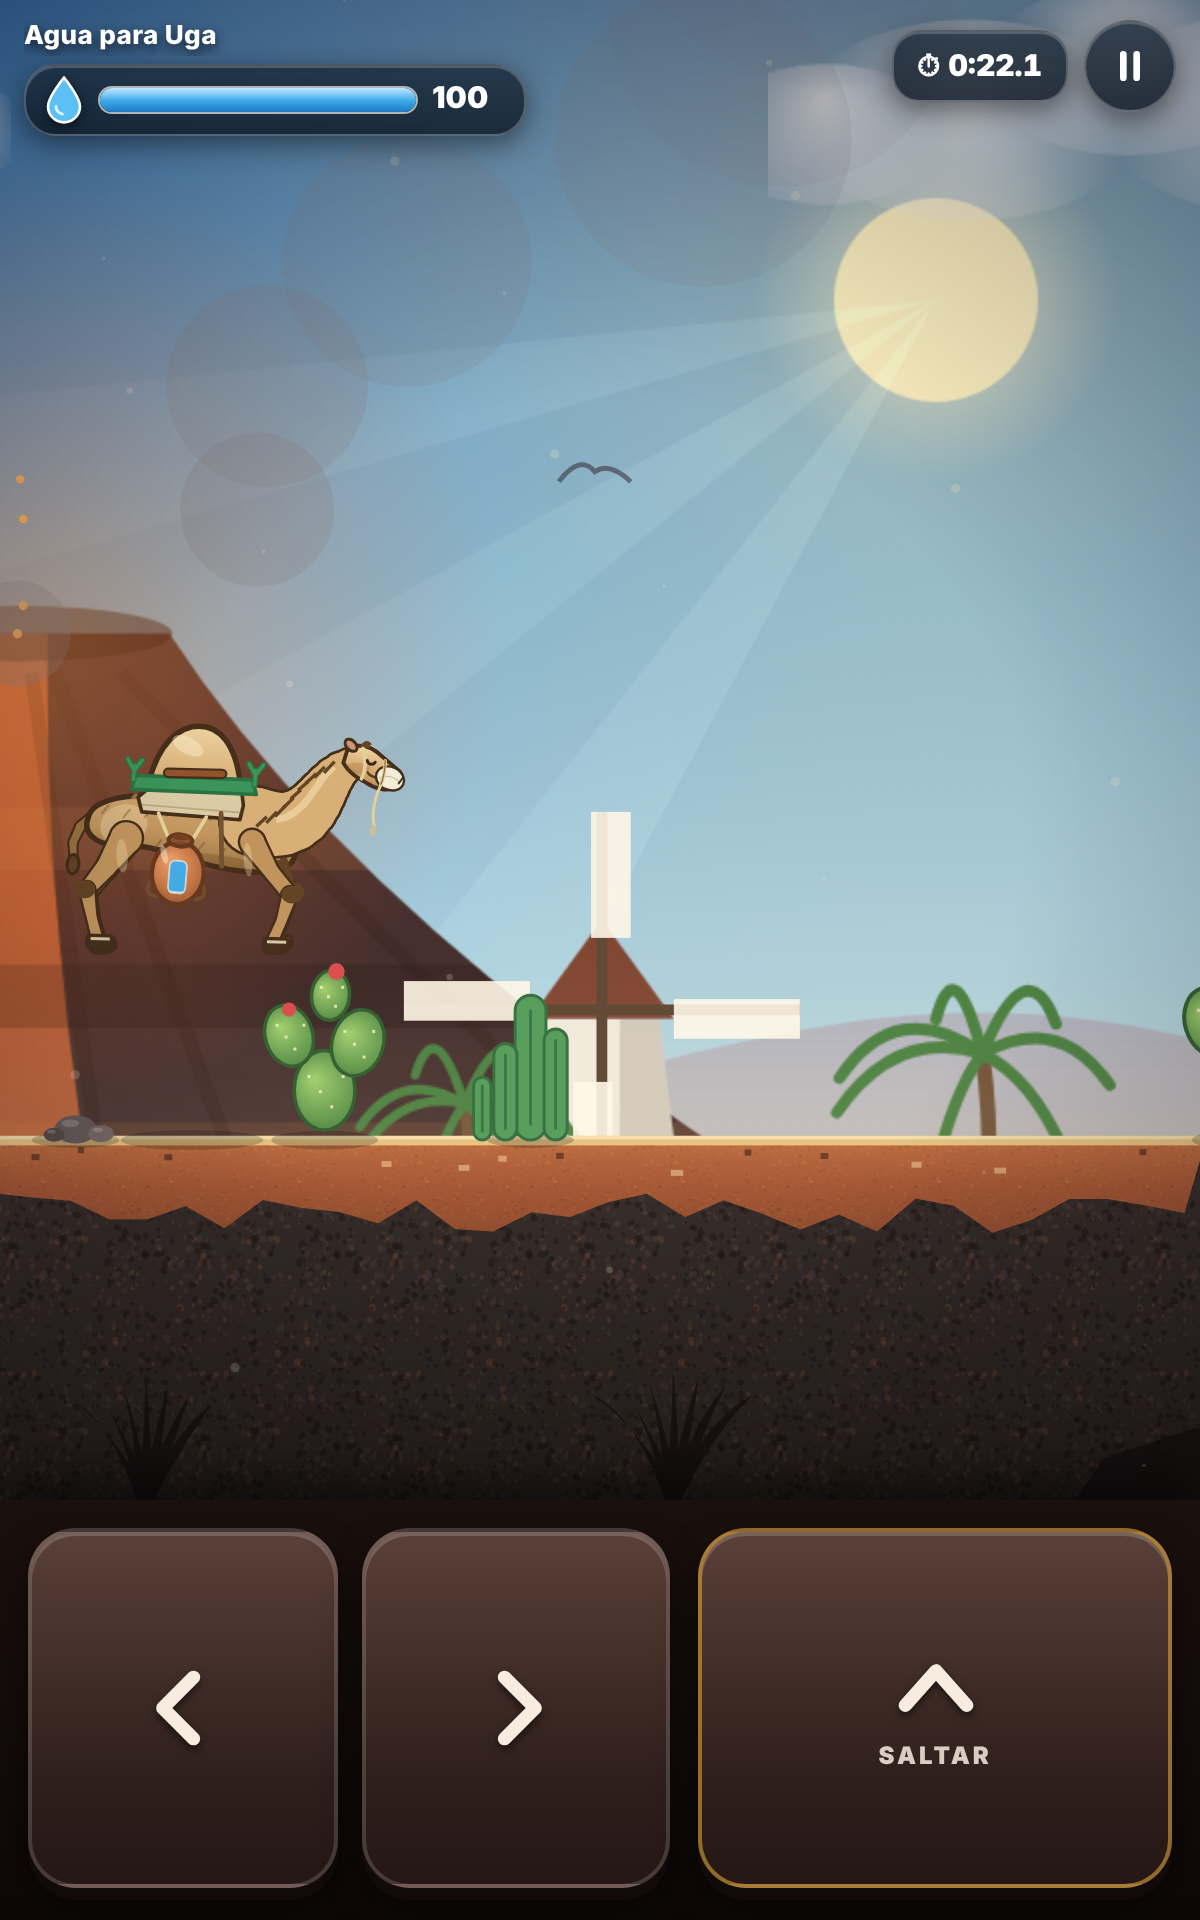
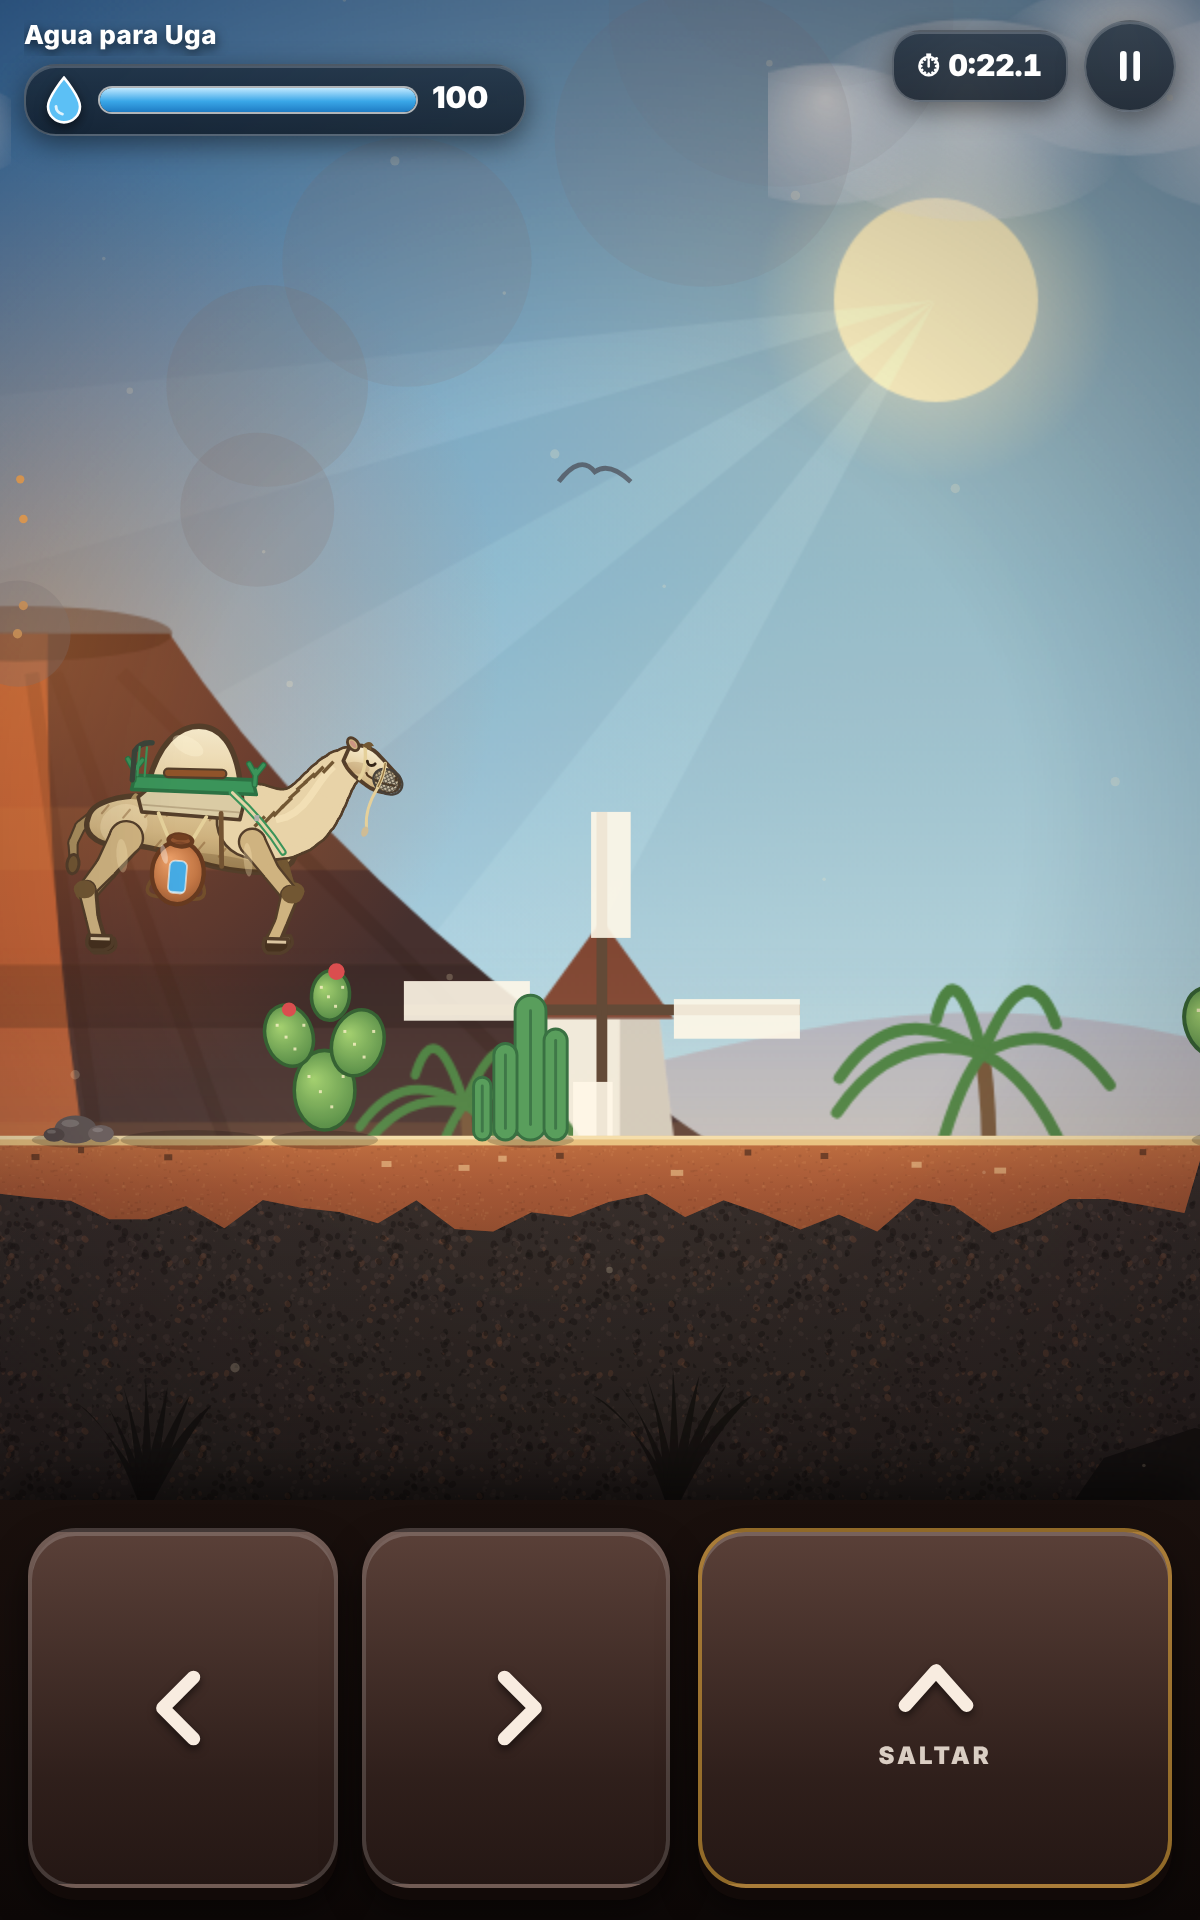
1.6.2: camello con pelaje crema, bozal de malla metálica, barandilla y correa de pecho de la silla de Timanfaya
Claude-Session: https://claude.ai/code/session_01H2Jf8v1MHtV6zTpVoU4WWj

Changed region(s): [[0.0617, 0.375, 0.3392, 0.5]]

diff --git a/docs/app/dibujo.js b/docs/app/dibujo.js
@@ -87,7 +87,7 @@
   function suelo(L, x, y) { let best = L.world.kill_y; for (const s of L.solids) if (s.kind !== 'oneway' && s.x0 <= x && s.x1 >= x && s.top <= y + 0.05 && s.top > best) best = s.top; return best; }
 
   /* ================== MARTÍN ================== */
-  const PEL = { luz: '#ead0a0', claro: '#d6ac74', medio: '#bd8f58', sombra: '#93693a', osc: '#5a3a1c', borde: '#3a2312', hocico: '#ecd9b4' };
+  const PEL = { luz: '#f4e8cc', claro: '#e7d2a8', medio: '#cdb07e', sombra: '#a68a5a', osc: '#6a4e2c', borde: '#4a3422', hocico: '#f1e6cc' };
 
   /* Trazo cónico (muslo, caña, cuello): primero el contorno, luego el relleno, para que no se vean costuras */
   function conico(ctx, pts, ws, fill, borde, lw) {
@@ -135,10 +135,10 @@
     // ventana de la nariz y boca sonriente
     ctx.fillStyle = '#4a2e17'; ctx.beginPath(); ctx.ellipse(0.4, -0.045, 0.016, 0.026, 0.5, 0, TAU); ctx.fill();
     ctx.strokeStyle = '#4a2e17'; ctx.lineWidth = 0.024; ctx.lineCap = 'round'; ctx.beginPath(); ctx.moveTo(0.41, -0.115); ctx.quadraticCurveTo(0.27, -0.15, 0.13, -0.115); ctx.quadraticCurveTo(0.1, -0.108, 0.09, -0.09); ctx.stroke();
-    // bozal de tela clara (como el de los camellos de Timanfaya)
-    ctx.fillStyle = '#f2ecdd'; ctx.strokeStyle = PEL.borde; ctx.lineWidth = 0.025; ctx.beginPath(); ctx.ellipse(0.33, -0.1, 0.15, 0.12, -0.2, 0, TAU); ctx.fill(); ctx.stroke();
-    ctx.strokeStyle = 'rgba(120,100,70,.4)'; ctx.lineWidth = 0.012; ctx.beginPath(); ctx.moveTo(0.22, -0.12); ctx.quadraticCurveTo(0.33, -0.04, 0.44, -0.12); ctx.stroke();
-    ctx.strokeStyle = PEL.borde; ctx.lineWidth = 0.02; ctx.beginPath(); ctx.moveTo(0.46, -0.06); ctx.lineTo(0.43, -0.13); ctx.stroke();
+    // bozal de malla metálica (como el de los camellos de Timanfaya)
+    ctx.save(); ctx.beginPath(); ctx.ellipse(0.33, -0.1, 0.16, 0.125, -0.2, 0, TAU); ctx.fillStyle = 'rgba(70,62,55,.28)'; ctx.fill(); ctx.clip();
+    ctx.strokeStyle = 'rgba(55,48,42,.75)'; ctx.lineWidth = 0.011; ctx.beginPath(); for (let k = -6; k <= 6; k++) { ctx.moveTo(0.33 + k * 0.045 - 0.14, -0.26); ctx.lineTo(0.33 + k * 0.045 + 0.14, 0.06); ctx.moveTo(0.33 + k * 0.045 + 0.14, -0.26); ctx.lineTo(0.33 + k * 0.045 - 0.14, 0.06); } ctx.stroke(); ctx.restore();
+    ctx.strokeStyle = '#3c3733'; ctx.lineWidth = 0.022; ctx.beginPath(); ctx.ellipse(0.33, -0.1, 0.16, 0.125, -0.2, 0, TAU); ctx.stroke();
     // cabezada de cuerda natural
     ctx.strokeStyle = '#e4cf9a'; ctx.lineWidth = 0.036; ctx.beginPath(); ctx.moveTo(0.24, 0.07); ctx.quadraticCurveTo(0.27, -0.06, 0.25, -0.19); ctx.moveTo(-0.02, 0.17); ctx.quadraticCurveTo(0.08, -0.04, 0.04, -0.17); ctx.stroke();
     ctx.strokeStyle = '#8a6a3a'; ctx.lineWidth = 0.014; ctx.beginPath(); ctx.moveTo(0.24, 0.07); ctx.quadraticCurveTo(0.27, -0.06, 0.25, -0.19); ctx.stroke();
@@ -219,13 +219,13 @@
     const sway = Math.sin(ph * 0.5) * (corre ? 0.04 : 0.01) + Math.sin(T * 1.7) * 0.012, tip = anim === 'salta' ? 0.06 : anim === 'cae' ? -0.1 : 0;
     const N = [[0.5, 1.2 + B], [1.08, 1.08 + B], [0.98, 1.66 + B], [1.32, 1.86 + B + tip]];
     const cub = q => { const m = 1 - q; return [m * m * m * N[0][0] + 3 * m * m * q * N[1][0] + 3 * m * q * q * N[2][0] + q * q * q * N[3][0], m * m * m * N[0][1] + 3 * m * m * q * N[1][1] + 3 * m * q * q * N[2][1] + q * q * q * N[3][1]]; };
-    const pts = [], ws = []; for (let i = 0; i <= 12; i++) { const q = i / 12; pts.push(cub(q)); ws.push(0.56 - q * 0.34 + Math.sin(q * Math.PI) * 0.03); }
+    const pts = [], ws = []; for (let i = 0; i <= 12; i++) { const q = i / 12; pts.push(cub(q)); ws.push(0.6 - q * 0.36 + Math.sin(q * Math.PI) * 0.03); }
     conico(ctx, pts, ws, PEL.claro, PEL.borde, 0.045);
     ctx.strokeStyle = 'rgba(255,240,200,.45)'; ctx.lineWidth = 0.06; ctx.beginPath(); for (let i = 2; i <= 10; i++) { const [x, y] = pts[i]; i === 2 ? ctx.moveTo(x - 0.06, y + 0.03) : ctx.lineTo(x - 0.06, y + 0.03); } ctx.stroke();
     ctx.strokeStyle = PEL.osc; ctx.lineWidth = 0.028; for (let i = 3; i < 12; i++) { const [x, y] = pts[i]; ctx.beginPath(); ctx.moveTo(x - ws[i] * 0.45, y + 0.02); ctx.lineTo(x - ws[i] * 0.45 - 0.08, y - 0.07 + Math.sin(T * 3 + i) * 0.01); ctx.stroke(); }
     ctx.fillStyle = PEL.osc; ctx.beginPath(); ctx.moveTo(pts[3][0] + 0.18, pts[3][1] - 0.2); for (let i = 3; i <= 7; i++) { const [x, y] = pts[i]; ctx.lineTo(x + ws[i] * 0.42, y - 0.12 * (1 - (i - 3) / 5) - ws[i] * 0.2); } ctx.globalAlpha *= 0; ctx.fill(); ctx.globalAlpha = st.alpha == null ? 1 : st.alpha;
     // cabeza (pequeña, con el belfo caído)
-    ctx.save(); ctx.translate(pts[12][0] + 0.03, pts[12][1] + 0.0); ctx.rotate(-0.22 - tip * 0.8 + sway); ctx.scale(0.8, 0.8); cabeza(ctx, T, st); ctx.restore();
+    ctx.save(); ctx.translate(pts[12][0] + 0.03, pts[12][1] + 0.0); ctx.rotate(-0.34 - tip * 0.8 + sway); ctx.scale(0.8, 0.8); cabeza(ctx, T, st); ctx.restore();
     // manta acolchada beige y silla de carga verde con asientos de cuero (como las de Timanfaya)
     const verde = '#2f8f55', verdeO = '#1f6a3d', cuero = '#8a4a22';
     ctx.beginPath(); ctx.moveTo(-0.44, 1.2 + B); ctx.lineTo(-0.48, 1.32 + B); ctx.lineTo(-0.4, 1.4 + B); ctx.lineTo(0.38, 1.42 + B); ctx.lineTo(0.4, 1.32 + B); ctx.lineTo(0.38, 1.2 + B); ctx.closePath();
@@ -235,6 +235,12 @@
     ctx.beginPath(); ctx.moveTo(-0.54, 1.38 + B); ctx.lineTo(-0.52, 1.5 + B); ctx.lineTo(0.46, 1.54 + B); ctx.lineTo(0.5, 1.42 + B); ctx.closePath(); ctx.fillStyle = verde; ctx.fill(); ctx.strokeStyle = verdeO; ctx.lineWidth = 0.03; ctx.stroke();
     ctx.save(); ctx.translate(-0.02, 1.52 + B); ctx.rotate(0.06); ctx.fillStyle = cuero; rr(ctx, -0.26, 0, 0.52, 0.07, 0.035); ctx.fill(); ctx.strokeStyle = PEL.borde; ctx.lineWidth = 0.018; ctx.stroke(); ctx.restore();
     for (const [x, s, y] of [[-0.53, -1, 1.46], [0.48, 1, 1.5]]) { ctx.lineCap = 'round'; for (const [c, w] of [[verdeO, 0.05], [verde, 0.028]]) { ctx.strokeStyle = c; ctx.lineWidth = w; ctx.beginPath(); ctx.moveTo(x, y + B); ctx.lineTo(x, y + 0.12 + B); ctx.moveTo(x, y + 0.08 + B); ctx.lineTo(x + 0.06, y + 0.17 + B); ctx.moveTo(x, y + 0.08 + B); ctx.lineTo(x - 0.06, y + 0.17 + B); ctx.stroke(); } }
+    // barandilla metálica curva con barrotes torneados
+    ctx.strokeStyle = '#2f3a33'; ctx.lineWidth = 0.045; ctx.lineJoin = 'round'; ctx.beginPath(); ctx.moveTo(-0.54, 1.46 + B); ctx.lineTo(-0.54, 1.7 + B); ctx.quadraticCurveTo(-0.5, 1.78 + B, -0.4, 1.78 + B); ctx.stroke();
+    ctx.strokeStyle = '#2f8f55'; ctx.lineWidth = 0.018; for (const x of [-0.5, -0.44]) { ctx.beginPath(); ctx.moveTo(x, 1.5 + B); ctx.lineTo(x, 1.74 + B); ctx.stroke(); }
+    // correa verde de pecho con hebilla y cincha beige
+    ctx.strokeStyle = '#2f8f55'; ctx.lineWidth = 0.06; ctx.beginPath(); ctx.moveTo(0.3, 1.42 + B); ctx.quadraticCurveTo(0.58, 1.2 + B, 0.76, 0.96 + B); ctx.stroke();
+    ctx.strokeStyle = '#e3d3a8'; ctx.lineWidth = 0.025; ctx.stroke(); ctx.fillStyle = '#aaa'; ctx.fillRect(0.5, 1.2 + B, 0.04, 0.05);
     // correa de pecho y cincha
     ctx.strokeStyle = '#6b4a2b'; ctx.lineWidth = 0.04; ctx.beginPath(); ctx.moveTo(0.22, 1.24 + B); ctx.lineTo(0.26, 0.8 + B); ctx.stroke();
     ctx.restore();

diff --git a/www/dibujo.js b/www/dibujo.js
@@ -87,7 +87,7 @@
   function suelo(L, x, y) { let best = L.world.kill_y; for (const s of L.solids) if (s.kind !== 'oneway' && s.x0 <= x && s.x1 >= x && s.top <= y + 0.05 && s.top > best) best = s.top; return best; }
 
   /* ================== MARTÍN ================== */
-  const PEL = { luz: '#ead0a0', claro: '#d6ac74', medio: '#bd8f58', sombra: '#93693a', osc: '#5a3a1c', borde: '#3a2312', hocico: '#ecd9b4' };
+  const PEL = { luz: '#f4e8cc', claro: '#e7d2a8', medio: '#cdb07e', sombra: '#a68a5a', osc: '#6a4e2c', borde: '#4a3422', hocico: '#f1e6cc' };
 
   /* Trazo cónico (muslo, caña, cuello): primero el contorno, luego el relleno, para que no se vean costuras */
   function conico(ctx, pts, ws, fill, borde, lw) {
@@ -135,10 +135,10 @@
     // ventana de la nariz y boca sonriente
     ctx.fillStyle = '#4a2e17'; ctx.beginPath(); ctx.ellipse(0.4, -0.045, 0.016, 0.026, 0.5, 0, TAU); ctx.fill();
     ctx.strokeStyle = '#4a2e17'; ctx.lineWidth = 0.024; ctx.lineCap = 'round'; ctx.beginPath(); ctx.moveTo(0.41, -0.115); ctx.quadraticCurveTo(0.27, -0.15, 0.13, -0.115); ctx.quadraticCurveTo(0.1, -0.108, 0.09, -0.09); ctx.stroke();
-    // bozal de tela clara (como el de los camellos de Timanfaya)
-    ctx.fillStyle = '#f2ecdd'; ctx.strokeStyle = PEL.borde; ctx.lineWidth = 0.025; ctx.beginPath(); ctx.ellipse(0.33, -0.1, 0.15, 0.12, -0.2, 0, TAU); ctx.fill(); ctx.stroke();
-    ctx.strokeStyle = 'rgba(120,100,70,.4)'; ctx.lineWidth = 0.012; ctx.beginPath(); ctx.moveTo(0.22, -0.12); ctx.quadraticCurveTo(0.33, -0.04, 0.44, -0.12); ctx.stroke();
-    ctx.strokeStyle = PEL.borde; ctx.lineWidth = 0.02; ctx.beginPath(); ctx.moveTo(0.46, -0.06); ctx.lineTo(0.43, -0.13); ctx.stroke();
+    // bozal de malla metálica (como el de los camellos de Timanfaya)
+    ctx.save(); ctx.beginPath(); ctx.ellipse(0.33, -0.1, 0.16, 0.125, -0.2, 0, TAU); ctx.fillStyle = 'rgba(70,62,55,.28)'; ctx.fill(); ctx.clip();
+    ctx.strokeStyle = 'rgba(55,48,42,.75)'; ctx.lineWidth = 0.011; ctx.beginPath(); for (let k = -6; k <= 6; k++) { ctx.moveTo(0.33 + k * 0.045 - 0.14, -0.26); ctx.lineTo(0.33 + k * 0.045 + 0.14, 0.06); ctx.moveTo(0.33 + k * 0.045 + 0.14, -0.26); ctx.lineTo(0.33 + k * 0.045 - 0.14, 0.06); } ctx.stroke(); ctx.restore();
+    ctx.strokeStyle = '#3c3733'; ctx.lineWidth = 0.022; ctx.beginPath(); ctx.ellipse(0.33, -0.1, 0.16, 0.125, -0.2, 0, TAU); ctx.stroke();
     // cabezada de cuerda natural
     ctx.strokeStyle = '#e4cf9a'; ctx.lineWidth = 0.036; ctx.beginPath(); ctx.moveTo(0.24, 0.07); ctx.quadraticCurveTo(0.27, -0.06, 0.25, -0.19); ctx.moveTo(-0.02, 0.17); ctx.quadraticCurveTo(0.08, -0.04, 0.04, -0.17); ctx.stroke();
     ctx.strokeStyle = '#8a6a3a'; ctx.lineWidth = 0.014; ctx.beginPath(); ctx.moveTo(0.24, 0.07); ctx.quadraticCurveTo(0.27, -0.06, 0.25, -0.19); ctx.stroke();
@@ -219,13 +219,13 @@
     const sway = Math.sin(ph * 0.5) * (corre ? 0.04 : 0.01) + Math.sin(T * 1.7) * 0.012, tip = anim === 'salta' ? 0.06 : anim === 'cae' ? -0.1 : 0;
     const N = [[0.5, 1.2 + B], [1.08, 1.08 + B], [0.98, 1.66 + B], [1.32, 1.86 + B + tip]];
     const cub = q => { const m = 1 - q; return [m * m * m * N[0][0] + 3 * m * m * q * N[1][0] + 3 * m * q * q * N[2][0] + q * q * q * N[3][0], m * m * m * N[0][1] + 3 * m * m * q * N[1][1] + 3 * m * q * q * N[2][1] + q * q * q * N[3][1]]; };
-    const pts = [], ws = []; for (let i = 0; i <= 12; i++) { const q = i / 12; pts.push(cub(q)); ws.push(0.56 - q * 0.34 + Math.sin(q * Math.PI) * 0.03); }
+    const pts = [], ws = []; for (let i = 0; i <= 12; i++) { const q = i / 12; pts.push(cub(q)); ws.push(0.6 - q * 0.36 + Math.sin(q * Math.PI) * 0.03); }
     conico(ctx, pts, ws, PEL.claro, PEL.borde, 0.045);
     ctx.strokeStyle = 'rgba(255,240,200,.45)'; ctx.lineWidth = 0.06; ctx.beginPath(); for (let i = 2; i <= 10; i++) { const [x, y] = pts[i]; i === 2 ? ctx.moveTo(x - 0.06, y + 0.03) : ctx.lineTo(x - 0.06, y + 0.03); } ctx.stroke();
     ctx.strokeStyle = PEL.osc; ctx.lineWidth = 0.028; for (let i = 3; i < 12; i++) { const [x, y] = pts[i]; ctx.beginPath(); ctx.moveTo(x - ws[i] * 0.45, y + 0.02); ctx.lineTo(x - ws[i] * 0.45 - 0.08, y - 0.07 + Math.sin(T * 3 + i) * 0.01); ctx.stroke(); }
     ctx.fillStyle = PEL.osc; ctx.beginPath(); ctx.moveTo(pts[3][0] + 0.18, pts[3][1] - 0.2); for (let i = 3; i <= 7; i++) { const [x, y] = pts[i]; ctx.lineTo(x + ws[i] * 0.42, y - 0.12 * (1 - (i - 3) / 5) - ws[i] * 0.2); } ctx.globalAlpha *= 0; ctx.fill(); ctx.globalAlpha = st.alpha == null ? 1 : st.alpha;
     // cabeza (pequeña, con el belfo caído)
-    ctx.save(); ctx.translate(pts[12][0] + 0.03, pts[12][1] + 0.0); ctx.rotate(-0.22 - tip * 0.8 + sway); ctx.scale(0.8, 0.8); cabeza(ctx, T, st); ctx.restore();
+    ctx.save(); ctx.translate(pts[12][0] + 0.03, pts[12][1] + 0.0); ctx.rotate(-0.34 - tip * 0.8 + sway); ctx.scale(0.8, 0.8); cabeza(ctx, T, st); ctx.restore();
     // manta acolchada beige y silla de carga verde con asientos de cuero (como las de Timanfaya)
     const verde = '#2f8f55', verdeO = '#1f6a3d', cuero = '#8a4a22';
     ctx.beginPath(); ctx.moveTo(-0.44, 1.2 + B); ctx.lineTo(-0.48, 1.32 + B); ctx.lineTo(-0.4, 1.4 + B); ctx.lineTo(0.38, 1.42 + B); ctx.lineTo(0.4, 1.32 + B); ctx.lineTo(0.38, 1.2 + B); ctx.closePath();
@@ -235,6 +235,12 @@
     ctx.beginPath(); ctx.moveTo(-0.54, 1.38 + B); ctx.lineTo(-0.52, 1.5 + B); ctx.lineTo(0.46, 1.54 + B); ctx.lineTo(0.5, 1.42 + B); ctx.closePath(); ctx.fillStyle = verde; ctx.fill(); ctx.strokeStyle = verdeO; ctx.lineWidth = 0.03; ctx.stroke();
     ctx.save(); ctx.translate(-0.02, 1.52 + B); ctx.rotate(0.06); ctx.fillStyle = cuero; rr(ctx, -0.26, 0, 0.52, 0.07, 0.035); ctx.fill(); ctx.strokeStyle = PEL.borde; ctx.lineWidth = 0.018; ctx.stroke(); ctx.restore();
     for (const [x, s, y] of [[-0.53, -1, 1.46], [0.48, 1, 1.5]]) { ctx.lineCap = 'round'; for (const [c, w] of [[verdeO, 0.05], [verde, 0.028]]) { ctx.strokeStyle = c; ctx.lineWidth = w; ctx.beginPath(); ctx.moveTo(x, y + B); ctx.lineTo(x, y + 0.12 + B); ctx.moveTo(x, y + 0.08 + B); ctx.lineTo(x + 0.06, y + 0.17 + B); ctx.moveTo(x, y + 0.08 + B); ctx.lineTo(x - 0.06, y + 0.17 + B); ctx.stroke(); } }
+    // barandilla metálica curva con barrotes torneados
+    ctx.strokeStyle = '#2f3a33'; ctx.lineWidth = 0.045; ctx.lineJoin = 'round'; ctx.beginPath(); ctx.moveTo(-0.54, 1.46 + B); ctx.lineTo(-0.54, 1.7 + B); ctx.quadraticCurveTo(-0.5, 1.78 + B, -0.4, 1.78 + B); ctx.stroke();
+    ctx.strokeStyle = '#2f8f55'; ctx.lineWidth = 0.018; for (const x of [-0.5, -0.44]) { ctx.beginPath(); ctx.moveTo(x, 1.5 + B); ctx.lineTo(x, 1.74 + B); ctx.stroke(); }
+    // correa verde de pecho con hebilla y cincha beige
+    ctx.strokeStyle = '#2f8f55'; ctx.lineWidth = 0.06; ctx.beginPath(); ctx.moveTo(0.3, 1.42 + B); ctx.quadraticCurveTo(0.58, 1.2 + B, 0.76, 0.96 + B); ctx.stroke();
+    ctx.strokeStyle = '#e3d3a8'; ctx.lineWidth = 0.025; ctx.stroke(); ctx.fillStyle = '#aaa'; ctx.fillRect(0.5, 1.2 + B, 0.04, 0.05);
     // correa de pecho y cincha
     ctx.strokeStyle = '#6b4a2b'; ctx.lineWidth = 0.04; ctx.beginPath(); ctx.moveTo(0.22, 1.24 + B); ctx.lineTo(0.26, 0.8 + B); ctx.stroke();
     ctx.restore();

diff --git a/docs/app/sw.js b/docs/app/sw.js
@@ -1,7 +1,7 @@
 // Service worker: deja la versión web disponible sin conexión.
 // En la app Android no hace falta (los archivos ya van dentro del APK) y podría servir
 // una versión antigua tras actualizar, así que allí se da de baja solo.
-const CACHE = 'martin-v1.6.1';
+const CACHE = 'martin-v1.6.2';
 const ASSETS = ['./', 'index.html', 'martin.js', 'niveles.js', 'juego.js', 'dibujo.js', 'manifest.webmanifest', 'icons/icon-192.png', 'icons/icon-512.png', 'icons/icon-maskable-512.png', 'icons/apple-touch-icon.png', 'i18n-en.js', 'i18n-fr.js', 'i18n-de.js', 'i18n-it.js', 'idioma.js', 'masjuegos.js', 'audio-suave.js', 'turno.js', 'contador.js', 'invitacion.js', 'publicas.js', 'juegos/ajedrez.png', 'juegos/chinchon.png', 'juegos/pumba.png', 'juegos/damas.png', 'juegos/parchis.png', 'juegos/poker.png', 'juegos/uno.png', 'juegos/martin.png'];
 const NATIVE = self.location.hostname === 'localhost' && self.location.protocol === 'https:';
 

diff --git a/www/sw.js b/www/sw.js
@@ -1,7 +1,7 @@
 // Service worker: deja la versión web disponible sin conexión.
 // En la app Android no hace falta (los archivos ya van dentro del APK) y podría servir
 // una versión antigua tras actualizar, así que allí se da de baja solo.
-const CACHE = 'martin-v1.6.1';
+const CACHE = 'martin-v1.6.2';
 const ASSETS = ['./', 'index.html', 'martin.js', 'niveles.js', 'juego.js', 'dibujo.js', 'manifest.webmanifest', 'icons/icon-192.png', 'icons/icon-512.png', 'icons/icon-maskable-512.png', 'icons/apple-touch-icon.png', 'i18n-en.js', 'i18n-fr.js', 'i18n-de.js', 'i18n-it.js', 'idioma.js', 'masjuegos.js', 'audio-suave.js', 'turno.js', 'contador.js', 'invitacion.js', 'publicas.js', 'juegos/ajedrez.png', 'juegos/chinchon.png', 'juegos/pumba.png', 'juegos/damas.png', 'juegos/parchis.png', 'juegos/poker.png', 'juegos/uno.png', 'juegos/martin.png'];
 const NATIVE = self.location.hostname === 'localhost' && self.location.protocol === 'https:';
 

diff --git a/docs/app/index.html b/docs/app/index.html
@@ -406,7 +406,7 @@ function openThemes() {
   AvisoTurno.enlazar();
 }
 
-const APP_VERSION = '1.6.1';
+const APP_VERSION = '1.6.2';
 const REPO = 'csuarezsm/Martin';
 const MAX_ARCHIVE = 500;
 const uid = () => Math.random().toString(36).slice(2, 10);

diff --git a/www/index.html b/www/index.html
@@ -406,7 +406,7 @@ function openThemes() {
   AvisoTurno.enlazar();
 }
 
-const APP_VERSION = '1.6.1';
+const APP_VERSION = '1.6.2';
 const REPO = 'csuarezsm/Martin';
 const MAX_ARCHIVE = 500;
 const uid = () => Math.random().toString(36).slice(2, 10);

diff --git a/README.md b/README.md
@@ -2,7 +2,7 @@
 
 Un camello canario joven de Uga lleva el agua por los caminos que dejó la tormenta: lava, rocas, huecos y bajadas. **6 niveles de plataformas** con tres estrellas cada uno, a veces con dos caminos (uno rápido y arriesgado, otro lento y seguro), y un **reto diario** igual para todos con ranking.
 Para Android e iPhone. Gratis, sin anuncios y sin cuentas. App Capacitor + web (`www/`). Todo se guarda en el móvil; solo el reto diario usa el servidor de juegos (nombre y pulsaciones, para comprobar el tiempo).
-Paquete: `com.itcanarias.martin` · versión 1.6.1
+Paquete: `com.itcanarias.martin` · versión 1.6.2
 
 **iPhone y navegadores**: la misma app se publica como versión web instalable en https://csuarezsm.github.io/Martin/app/ (GitHub Pages, carpeta `docs/app`, copia de `www/`). En Safari: Compartir → «Añadir a pantalla de inicio». Tras cambiar `www/`, ejecuta `npm run web`.
 
